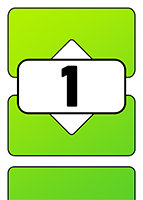
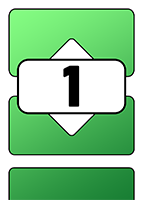
shop cards

diff --git a/src/atoms/BigCard.jsx b/src/atoms/BigCard.jsx
@@ -1,91 +1,26 @@
 import React from "react"
-import { LinearGradient } from "expo-linear-gradient"
-import { responsiveFontSize, responsiveWidth, responsiveHeight } from "react-native-responsive-dimensions"
-import { StyleSheet, View, Text, TouchableOpacity } from "react-native"
-
-const colors = {
-  red: ["#FF6D3A", "#FF573F", "#FF4342", "#FD0043"],
-  blue: ["#008EFD", "#0070D0", "#0059AD", "#004086"],
-  green: ["#9FDD00", "#A5D600", "#97BD41", "#92B059"],
-  gray: ["#CCCCCC", "#999999", "#777777", "#555555"],
-}
+import { responsiveWidth } from "react-native-responsive-dimensions"
+import { StyleSheet, Image, TouchableOpacity } from "react-native"
+import { CARDS } from "src/constants"
 
 export default function BigCard({ type = "green", value = "+1", playCard, turn, index }) {
   return (
     <TouchableOpacity style={styles.paper} onPress={() => (turn ? playCard(index) : {})}>
-      <View style={styles.topRound}>
-        <LinearGradient colors={[colors[type][0], colors[type][1]]} style={styles.gradient}>
-          <View style={styles.topArrow} />
-        </LinearGradient>
-        <View style={styles.numberStripe}>
-          <Text style={styles.numberText}>{value}</Text>
-        </View>
-        <LinearGradient colors={[colors[type][1], colors[type][2]]} style={styles.gradient}>
-          <View style={styles.bottomArrow} />
-        </LinearGradient>
-      </View>
-      <View style={styles.bottomRound}>
-        <LinearGradient colors={[colors[type][2], colors[type][3]]} style={styles.gradient} />
-      </View>
+      <Image style={styles.card(12)} source={CARDS[`${type}${value}`]} />
     </TouchableOpacity>
   )
 }
 
 const styles = StyleSheet.create({
   paper: {
-    height: responsiveWidth(15),
-    width: responsiveWidth(11),
-    borderRadius: responsiveWidth(2),
-    backgroundColor: `#FFF`,
-    flexDirection: `column`,
-    alignItems: `center`,
-    justifyContent: `flex-start`,
-    overflow: `hidden`,
-    margin: responsiveWidth(2),
+    borderWidth: 1,
+    borderColor: `#CCC`,
+    borderRadius: 5,
+    marginLeft: responsiveWidth(1),
+    marginRight: responsiveWidth(1)
   },
-  topRound: {
-    marginTop: responsiveHeight(0.5),
-    marginBottom: responsiveHeight(0.5),
-    flex: 3,
-    width: responsiveWidth(9),
-    borderRadius: responsiveWidth(2),
-    overflow: `hidden`,
-  },
-  gradient: {
-    flex: 1,
-    alignItems: "center",
-    justifyContent: "center",
-  },
-  numberStripe: {
-    flex: 1,
-    alignItems: "center",
-    justifyContent: "center",
-    zIndex: 200
-  },
-  numberText: {
-    fontWeight: `700`,
-    fontSize: responsiveFontSize(1.5),
-    marginTop: responsiveFontSize(-0.3),
-  },
-  bottomRound: {
-    flex: 1,
-    width: responsiveWidth(9),
-    borderTopLeftRadius: responsiveWidth(2),
-    borderTopRightRadius: responsiveWidth(2),
-    overflow: `hidden`,
-  },
-  topArrow: {
-    height: responsiveHeight(2),
-    width: responsiveHeight(2),
-    transform: [{ rotate: `45deg` }],
-    marginBottom: responsiveHeight(-2.75),
-    backgroundColor: "#FFF",
-  },
-  bottomArrow: {
-    height: responsiveHeight(2),
-    width: responsiveHeight(2),
-    transform: [{ rotate: `45deg` }],
-    marginTop: responsiveHeight(-2.75),
-    backgroundColor: "#FFF",
-  },
+  card: (w) => ({
+    height: responsiveWidth(w * 1.3986013986),
+    width: responsiveWidth(w),
+  }),
 })

diff --git a/src/constants.js b/src/constants.js
@@ -8,3 +8,28 @@ export const AUDIOLIBRARY = {
   sideDeck: require("src/assets/audio/sfx-side-deck.mp3"),
   tie: require("src/assets/audio/sfx-tie.mp3"),
 }
+export const CARDS = {
+  back: require("src/assets/cards/purple-back.png"),
+  blue1: require("src/assets/cards/blue-one.png"),
+  blue2: require("src/assets/cards/blue-two.png"),
+  blue3: require("src/assets/cards/blue-three.png"),
+  blue4: require("src/assets/cards/blue-four.png"),
+  blue5: require("src/assets/cards/blue-five.png"),
+  blue6: require("src/assets/cards/blue-six.png"),
+  green1: require("src/assets/cards/green-one.png"),
+  green2: require("src/assets/cards/green-two.png"),
+  green3: require("src/assets/cards/green-three.png"),
+  green4: require("src/assets/cards/green-four.png"),
+  green5: require("src/assets/cards/green-five.png"),
+  green6: require("src/assets/cards/green-six.png"),
+  green7: require("src/assets/cards/green-seven.png"),
+  green8: require("src/assets/cards/green-eight.png"),
+  green9: require("src/assets/cards/green-nine.png"),
+  green10: require("src/assets/cards/green-ten.png"),
+  "red-1": require("src/assets/cards/red-one.png"),
+  "red-2": require("src/assets/cards/red-two.png"),
+  "red-3": require("src/assets/cards/red-three.png"),
+  "red-4": require("src/assets/cards/red-four.png"),
+  "red-5": require("src/assets/cards/red-five.png"),
+  "red-6": require("src/assets/cards/red-six.png"),
+}

diff --git a/src/screens/CardTest.jsx b/src/screens/CardTest.jsx
@@ -1,15 +1,12 @@
 import React from "react"
 import { StyleSheet, Image, View } from "react-native"
 import { responsiveWidth } from "react-native-responsive-dimensions"
+import { CARDS } from "src/constants"
 
-import RedOne from "src/assets/cards/blue-four.png"
-
-export default function CardTest() {
+export default function CardTest({ type = "red", value = "-1" }) {
   return (
     <View style={styles.container}>
-      <View style={styles.cardWrapper}>
-        <Image style={styles.card(20)} source={RedOne} />
-      </View>
+
     </View>
   )
 }
@@ -17,16 +14,13 @@ export default function CardTest() {
 const styles = StyleSheet.create({
   container: {
     flex: 1,
-    alignItems: "center",
+    flexDirection: "row",
+    flexWrap: "wrap",
+    marginTop: 50,
     justifyContent: "center",
   },
   cardWrapper: {
-    borderWidth: 1,
-    borderColor: `#CCC`,
-    borderRadius: 5,
+
   },
-  card: (w) => ({
-    height: responsiveWidth(w * 1.3986013986),
-    width: responsiveWidth(w),
-  }),
+
 })

diff --git a/src/atoms/BigPlaceholder.jsx b/src/atoms/BigPlaceholder.jsx
@@ -1,21 +1,18 @@
 import React from "react"
-import { StyleSheet, View } from "react-native"
+import { StyleSheet, Image } from "react-native"
 import { responsiveWidth } from "react-native-responsive-dimensions"
+import placeholder from "src/assets/cards/placeholder.png"
 
 export default function BigPlaceholder() {
-  return <View style={styles.paper}></View>
+  return <Image style={styles.card(12.4)} source={placeholder} />
 }
 
 const styles = StyleSheet.create({
-  paper: {
-    height: responsiveWidth(15),
-    width: responsiveWidth(11),
-    borderRadius: responsiveWidth(2),
-    backgroundColor: `#141B36`,
-    flexDirection: `column`,
-    alignItems: `center`,
-    justifyContent: `flex-start`,
-    overflow: `hidden`,
-    margin: responsiveWidth(2),
-  },
+  card: (w) => ({
+    height: responsiveWidth(w * 1.3986013986),
+    width: responsiveWidth(w),
+    borderRadius: 5,
+    marginLeft: responsiveWidth(1),
+    marginRight: responsiveWidth(1)
+  }),
 })

diff --git a/src/Router.jsx b/src/Router.jsx
@@ -10,7 +10,7 @@ export default function Router() {
 
   return (
     <Navigation>
-      <Navigator initialRouteName="Card Test" screenOptions={screenOptions}>
+      <Navigator initialRouteName="Landing" screenOptions={screenOptions}>
         <Screen name="Landing" component={LandingScreen} />
         <Screen name="Pazaak" component={PazaakScreen} />
         <Screen name="Join Error" component={JoinErrorScreen} />

diff --git a/src/components/PlayerSideDeck.jsx b/src/components/PlayerSideDeck.jsx
@@ -43,5 +43,7 @@ const styles = StyleSheet.create({
     backgroundColor: `#2E385A`,
     width: `100%`,
     marginBottom: responsiveHeight(6),
+    paddingTop: responsiveHeight(1),
+    paddingBottom: responsiveHeight(1),
   },
 })
